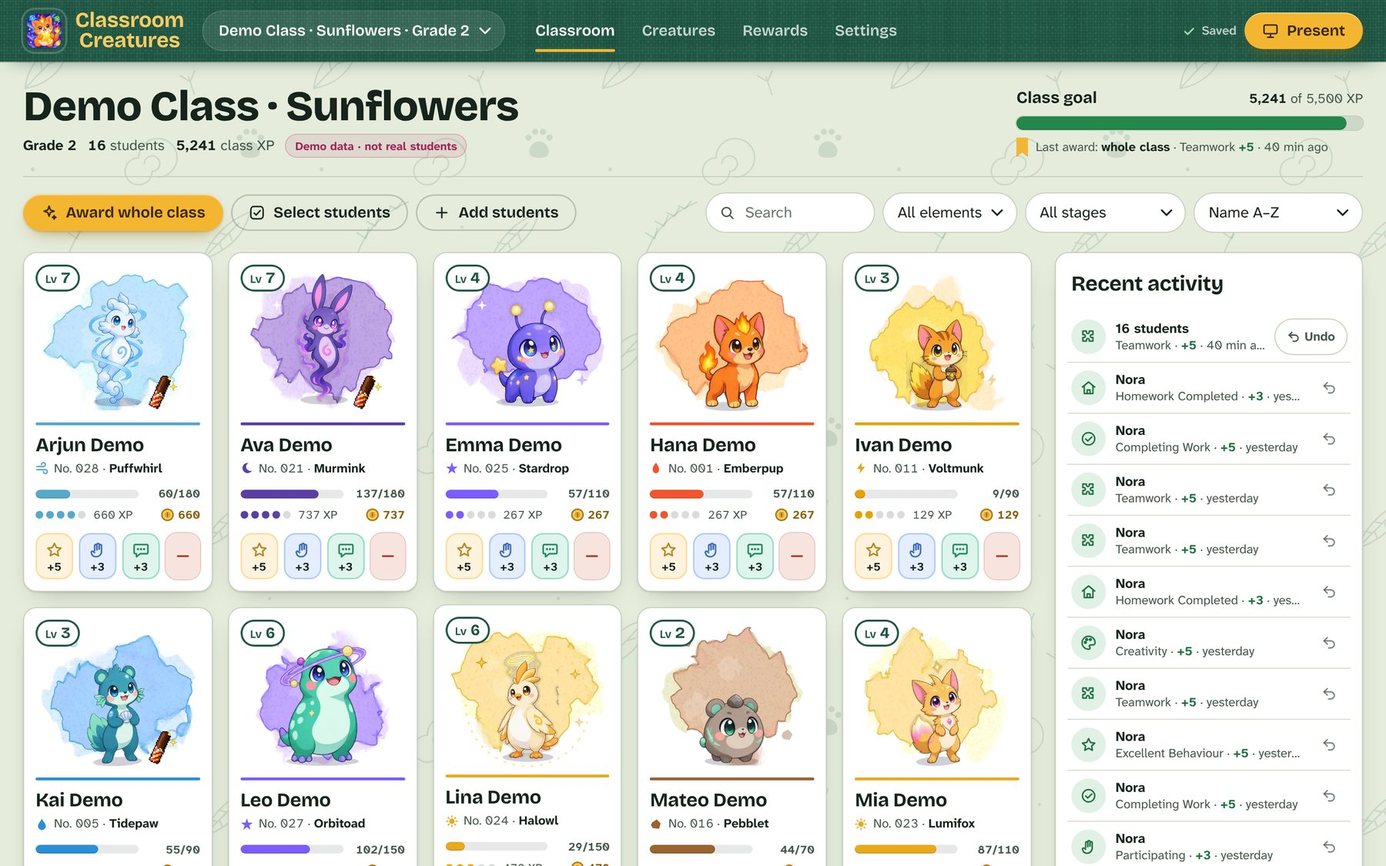
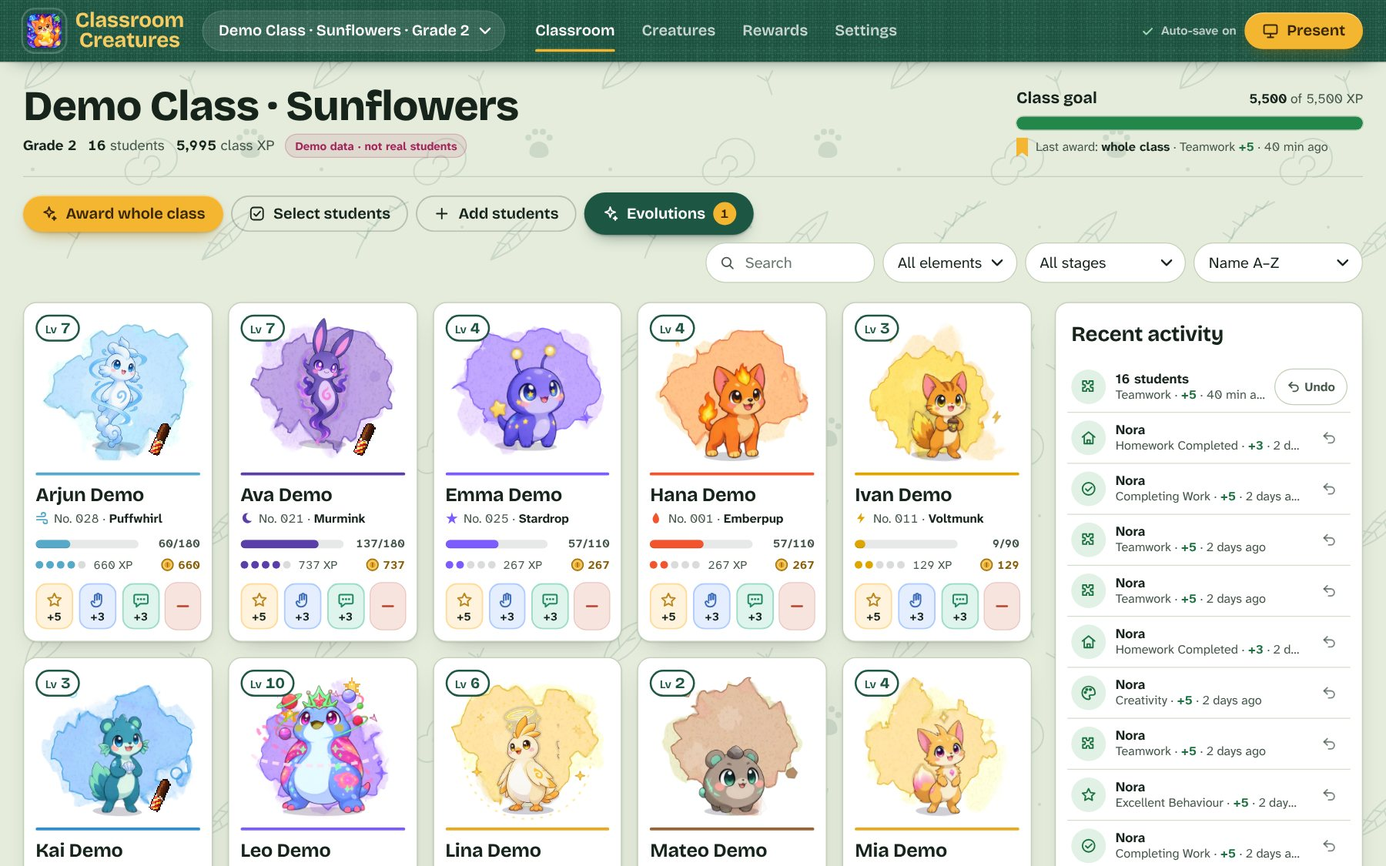
chore: release 1.4.0, the creature RPG update
Large-view pixel rules: mythical forms wear drifting particles instead of
full-body auras, the equippable shield keeps only its rim, the light beam
moves beside the creature, floating pickups drop their floor shadow, and
mood effects use a smaller stand-in so nothing covers a creature's face.
Wings and shield icons for the dressing room tabs.

Docs: README What's new in 1.4 with new screenshots, commands and
architecture; DESIGN.md components and pixel-layer rules; design-system
and roadmap updates. Version 1.4.0.

Claude-Session: https://claude.ai/code/session_0146Sco5Dyscef7FdmFmnUiR

diff --git a/src/creatures/Creature.tsx b/src/creatures/Creature.tsx
@@ -69,18 +69,28 @@ const MOOD_FX: Partial<Record<Mood, PixelFxId>> = { happy: 'status/charmed', exc
 const COMPACT_POW = 0.36;
 
 /** pixel-art special effects a student can equip (magic slot) */
-const EQUIP_FX: Record<string, { id: PixelFxId; anchor?: [number, number]; size?: number; palette?: string[] }> = {
-  'fx-shield': { id: 'holy/divine-shield', palette: ['#0b3a66', '#1f6fa8', '#3fb6e8', '#8fe4ff', '#e6fbff', '#ffffff'] },
-  'fx-orbs': { id: 'pickups/xp-orb', anchor: [0.82, 0.42], size: 0.55 },
-  'fx-crystals': { id: 'pickups/crystal-shard', anchor: [0.16, 0.5], size: 0.6 },
-  'fx-gems': { id: 'pickups/gem-spin', anchor: [0.84, 0.36], size: 0.5 },
-  'fx-beam': { id: 'pickups/loot-beam', anchor: [0.5, 0.97], size: 0.9 },
+interface EquipFx { id: PixelFxId; anchor?: [number, number]; size?: number; palette?: string[]; shadow?: boolean; large?: { anchor?: [number, number]; size?: number; clearCentre?: boolean } }
+/**
+ * Pixel-art special effects a student can equip (magic slot). On large views (profile, dressing room)
+ * the pixels get big, so effects that would cover the creature move aside or keep only their rim.
+ */
+const EQUIP_FX: Record<string, EquipFx> = {
+  'fx-shield': { id: 'holy/divine-shield', palette: ['#0b3a66', '#1f6fa8', '#3fb6e8', '#8fe4ff', '#e6fbff', '#ffffff'], large: { clearCentre: true } },
+  'fx-orbs': { id: 'pickups/xp-orb', anchor: [0.82, 0.42], size: 0.55, shadow: false },
+  'fx-crystals': { id: 'pickups/crystal-shard', anchor: [0.16, 0.5], size: 0.6, shadow: false },
+  'fx-gems': { id: 'pickups/gem-spin', anchor: [0.84, 0.36], size: 0.5, shadow: false },
+  'fx-beam': { id: 'pickups/loot-beam', anchor: [0.5, 0.97], size: 0.9, large: { anchor: [0.86, 0.9], size: 0.42 } },
 };
+/** keeps a full-body effect's rim and clears the middle, where the creature's face is */
+const CLEAR_CENTRE = { maskImage: 'radial-gradient(ellipse 50% 52% at 50% 56%, transparent 62%, #000 86%)', WebkitMaskImage: 'radial-gradient(ellipse 50% 52% at 50% 56%, transparent 62%, #000 86%)' };
 
-/** the looping pixel aura each mythical aspect wears */
-const MYTH_AURA: Partial<Record<Motif, PixelFxId>> = {
-  frostflame: 'status/burning', stormtide: 'holy/divine-shield', voidvolt: 'status/cursed', sunfrost: 'pickups/crystal-shard',
-  amethyst: 'pickups/crystal-shard', dawn: 'status/burning', moon: 'holy/divine-shield', nebula: 'holy/divine-shield',
+/**
+ * The pixel particles drifting around each mythical aspect (on large views, unless a trail is worn).
+ * Particles stay around the creature; full-body pixel effects scaled to a big plate covered its face.
+ */
+const MYTH_AURA: Partial<Record<Motif, string>> = {
+  frostflame: 'trail-snow', stormtide: 'trail-bubble', voidvolt: 'trail-star', sunfrost: 'trail-snow',
+  amethyst: 'trail-sparkle', dawn: 'trail-sparkle', moon: 'trail-star', nebula: 'trail-star',
 };
 
 const CYCLE: CreatureAction[] = ['jump', 'wave', 'ability', 'happy'];
@@ -215,14 +225,20 @@ export function Creature({ speciesId, stage, equipped, celebrateKey, reactKind =
       {effects && shownMood === 'sad' && <EmotionFx mood="sad" compact={compact} />}
       {effects && equipped?.magic && EQUIP_FX[equipped.magic] && (() => {
         const f = EQUIP_FX[equipped.magic!];
-        return <PixelFx key={`equip-${equipped.magic}`} id={f.id} anchor={f.anchor} size={f.size} options={f.palette ? { palette: f.palette } : undefined} fps={compact ? 16 : 24} lightOpacity={0.6} />;
+        const big = compact ? undefined : f.large;
+        const options = { ...(f.palette ? { palette: f.palette } : {}), ...(f.shadow === false ? { shadow: false } : {}) };
+        return <PixelFx key={`equip-${equipped.magic}`} id={f.id} anchor={big?.anchor ?? f.anchor} size={big?.size ?? f.size} options={options} fps={compact ? 16 : 24} lightOpacity={0.6} style={big?.clearCentre ? CLEAR_CENTRE : undefined} />;
       })()}
-      {effects && myth && !compact && MYTH_AURA[myth.motif] && <PixelFx key={`myth-${myth.motif}`} id={MYTH_AURA[myth.motif]!} options={{ palette: myth.aura }} fps={24} />}
-      {effects && !current && !myth && MOOD_FX[mood] && <PixelFx key={`mood-${mood}`} id={MOOD_FX[mood]!} fps={compact ? 20 : 30} />}
+      {effects && myth && !compact && !equipped?.trail && MYTH_AURA[myth.motif] && <Trail key={`myth-${myth.motif}`} id={MYTH_AURA[myth.motif]!} />}
+      {effects && !current && !myth && MOOD_FX[mood] && (compact
+        ? <PixelFx key={`mood-${mood}`} id={MOOD_FX[mood]!} fps={20} />
+        // large views: a smaller stand-in with its head where the creature's head is, so the pixels stay fine
+        : mood === 'excited' ? <PixelFx key={`mood-${mood}`} id={MOOD_FX[mood]!} fps={30} />
+        : <PixelFx key={`mood-${mood}`} id={MOOD_FX[mood]!} fps={30} bodyFrac={0.34} anchor={[0.5, 0.65]} />)}
       {effects && treats > 0 && (
         <>
           <PixelFx key="treat" id="pickups/choco-stick" anchor={compact ? [0.8, 0.98] : [0.78, 0.9]} size={compact ? 0.42 : 0.2} options={{ shadow: false }} fps={compact ? 20 : 30} />
-          {treats > 1 && <span className="absolute bottom-[4%] right-[4%] grid h-5 min-w-5 place-items-center rounded-full bg-[#d8242f] px-1 text-[10px] font-extrabold text-white ring-2 ring-white">×{treats}</span>}
+          {treats > 1 && <span className={`absolute grid h-5 min-w-5 place-items-center rounded-full bg-[#d8242f] px-1 text-[10px] font-extrabold text-white ring-2 ring-white ${compact ? 'bottom-[4%] right-[4%]' : 'left-[81%] top-[83%]'}`}>×{treats}</span>}
         </>
       )}
       {fx.map((f) => (

diff --git a/src/creatures/PixelFx.tsx b/src/creatures/PixelFx.tsx
@@ -1,4 +1,4 @@
-import { useEffect, useRef, useState } from 'react';
+import { type CSSProperties, useEffect, useRef, useState } from 'react';
 import { clearFrame, createFrame, createFx } from '../vendor/pixelfx/core/index.js';
 
 /**
@@ -8,7 +8,7 @@ import { clearFrame, createFrame, createFx } from '../vendor/pixelfx/core/index.
 // eslint-disable-next-line @typescript-eslint/no-explicit-any
 type FxModule = any;
 /** effects that paint the stand-in's face (eyes, blush): those pixels are dropped so our creature shows through */
-const PAINTS_BODY = new Set(['holy/halo', 'status/charmed', 'status/burning', 'status/frozen', 'status/cursed', 'status/petrified', 'status/rage', 'holy/divine-shield']);
+const PAINTS_BODY = new Set(['holy/blessing', 'holy/halo', 'status/charmed', 'status/burning', 'status/frozen', 'status/cursed', 'status/petrified', 'status/rage', 'holy/divine-shield']);
 const FX = {
   'explosions/cartoon-pow': () => import('../vendor/pixelfx/fx/explosions/cartoon-pow.js'),
   'holy/halo': () => import('../vendor/pixelfx/fx/holy/halo.js'),
@@ -81,6 +81,8 @@ export interface PixelFxProps {
   onDone?: () => void;
   fps?: number;
   className?: string;
+  /** extra styles on the effect layer (e.g. a mask that keeps the creature's face clear) */
+  style?: CSSProperties;
   /** strength of the additive light layer (big effects can wash out a light page) */
   lightOpacity?: number;
 }
@@ -116,7 +118,7 @@ export function PixelFx(props: PixelFxProps) {
   return <FxCanvas {...props} mod={mod} />;
 }
 
-function FxCanvas({ id, anchor = [0.5, 0.93], bodyFrac = 0.62, size = 1, options, duration, onDone, fps = 30, className = '', lightOpacity = 1, mod }: PixelFxProps & { mod: FxModule }) {
+function FxCanvas({ id, anchor = [0.5, 0.93], bodyFrac = 0.62, size = 1, options, duration, onDone, fps = 30, className = '', style, lightOpacity = 1, mod }: PixelFxProps & { mod: FxModule }) {
   const box = useRef<HTMLDivElement>(null);
   const colorRef = useRef<HTMLCanvasElement>(null);
   const lightRef = useRef<HTMLCanvasElement>(null);
@@ -195,7 +197,7 @@ function FxCanvas({ id, anchor = [0.5, 0.93], bodyFrac = 0.62, size = 1, options
   }, [id, duration, fps, size, bodyFrac, anchor[0], anchor[1], JSON.stringify(options ?? {})]);
 
   return (
-    <div ref={box} className={`pointer-events-none absolute inset-0 ${className}`} aria-hidden>
+    <div ref={box} className={`pointer-events-none absolute inset-0 ${className}`} style={style} aria-hidden>
       <canvas ref={colorRef} width={W} height={H} className="absolute" style={{ imageRendering: 'pixelated' }} />
       <canvas ref={lightRef} width={W} height={H} className="absolute" style={{ imageRendering: 'pixelated', mixBlendMode: 'screen', opacity: lightOpacity }} />
     </div>

diff --git a/src/components/Icon.tsx b/src/components/Icon.tsx
@@ -27,6 +27,7 @@ const PATHS: Record<string, ReactNode> = {
   star: <path d="M12 3.5l2.6 5.4 5.9.8-4.3 4.1 1 5.8L12 16.8l-5.2 2.8 1-5.8-4.3-4.1 5.9-.8z" />,
   target: <><circle cx="12" cy="12" r="8.5" /><circle cx="12" cy="12" r="4.5" /><circle cx="12" cy="12" r="1" fill="currentColor" /></>,
   crown: <><path d="M4 18h16M5 18l-1.5-10 5 4L12 5l3.5 7 5-4L19 18" /></>,
+  wings: <><path d="M12 10C10 6 6.5 4.5 3.5 5c-.4 3.6 1.6 7.6 5.7 8.6L12 13" /><path d="M12 10c2-4 5.5-5.5 8.5-5 .4 3.6-1.6 7.6-5.7 8.6L12 13" /><path d="M7 15.5c1.5 1.6 3.3 2.3 5 2.3s3.5-.7 5-2.3" /></>,
   replay: <><path d="M4 12a8 8 0 1 0 2.4-5.7" /><path d="M4 4v4.5h4.5" /></>,
   back: <path d="M15 5l-7 7 7 7" />,
   next: <path d="M9 5l7 7-7 7" />,

diff --git a/src/views/Customize.tsx b/src/views/Customize.tsx
@@ -17,7 +17,7 @@ import { useStore } from '../store/store';
 import type { Equipped, Item, ItemSlot, Student } from '../types';
 
 const SLOT_ICON: Record<ItemSlot, string> = {
-  hat: 'crown', glasses: 'target', outfit: 'user', armor: 'pin', wings: 'wave', decoration: 'star', background: 'book', trail: 'sparkle', magic: 'bolt',
+  hat: 'crown', glasses: 'target', outfit: 'user', armor: 'shield', wings: 'wings', decoration: 'star', background: 'book', trail: 'sparkle', magic: 'bolt',
 };
 
 /** Dressing room: the creature in the middle, categories on the left, items on the right. Try anything on before buying. */

diff --git a/README.md b/README.md
@@ -1,6 +1,6 @@
 # Classroom Creatures
 
-A gamified classroom management app for Grade 2 and Grade 3 teachers. Every student gets their own original fantasy creature. The teacher awards XP for positive behaviour, and the creatures celebrate, level up, evolve through five forms, unlock badges and accessories, and appear on a projector-friendly presentation screen.
+A gamified classroom management app for Grade 2 and Grade 3 teachers. Every student gets their own original fantasy creature. The teacher awards XP for positive behaviour, and the creatures celebrate, level up and evolve through five forms (ten of them can take a mythical final path). Students dress their creature up with the coins they earn, awaken its abilities and play with it, and the class fills in a field guide of every form it discovers. It all shows on a projector-friendly presentation screen.
 
 - **Runs locally.** No accounts, no student emails, no cloud, no paid services. Works offline once installed.
 - **Saves automatically** to the browser's IndexedDB (with a localStorage mirror), plus daily safety snapshots and downloadable backup files.
@@ -9,11 +9,30 @@ A gamified classroom management app for Grade 2 and Grade 3 teachers. Every stud
 
 <p align="center"><img src="docs/screenshots/classroom.jpg" alt="The Classroom dashboard: student cards with illustrated creatures, moods, coins and quick award buttons" width="900"></p>
 
-| Presentation mode | Prize wheel | Shop |
+| Creature profile | Dressing room | Evolution |
 |---|---|---|
-| <img src="docs/screenshots/presentation.jpg" alt="Presentation mode on a projector" width="300"> | <img src="docs/screenshots/prize-wheel.jpg" alt="The class prize wheel" width="300"> | <img src="docs/screenshots/shop.jpg" alt="The coin shop in a student's profile" width="300"> |
+| <img src="docs/screenshots/creature-profile.jpg" alt="A creature's profile: the mythical Nebula Prince form, level 10, its evolution line, personality and abilities" width="300"> | <img src="docs/screenshots/dressing-room.jpg" alt="The dressing room: item categories, the creature trying on butterfly wings, and item cards marked owned or with a coin price" width="300"> | <img src="docs/screenshots/evolution.jpg" alt="The evolution reveal: stage IV beside the new mythical stage V form, Your creature evolved!" width="300"> |
+
+| Field guide | Teacher controls | Presentation mode |
+|---|---|---|
+| <img src="docs/screenshots/field-guide.jpg" alt="The class field guide: discovery progress, class milestones with rewards, and creature cards, undiscovered ones as silhouettes" width="300"> | <img src="docs/screenshots/teacher-controls.jpg" alt="Settings, Creatures and Shop: evolution mode, one creature waiting, and the class progression table" width="300"> | <img src="docs/screenshots/presentation.jpg" alt="Presentation mode on a projector" width="300"> |
 
 <p align="center"><img src="docs/screenshots/reactions.jpg" alt="Pixel effects: a happy award, a BONK deduction, dizzy stars and confused question marks" width="900"></p>
+
+## What's new in 1.4: the creature RPG update
+
+- **Evolution can be a class moment.** Choose **Automatic** (creatures evolve as soon as they have the XP) or **Teacher approval** in Settings → Creatures & Shop. With approval on, a ready creature shows **Ready to evolve** and joins the **Evolutions** queue on the Classroom tab until you press **Evolve**. The evolution itself is a full-screen sequence: the creature turns to light under a pixel pillar, a flash, then the new form beside the old one, with its own sounds. Every evolution is kept in the creature's history, and evolving never changes XP or coins.
+- **Two final paths.** Ten creatures choose at stage V between their classic Legendary form and a **Mythical** form with its own colours, ornaments and drifting pixel particles. The field guide counts both.
+- **A dressing room for every creature.** 73 items in nine slots: hats, glasses, clothing, armor, wings, accessories, backgrounds, trails and effects. Students try anything on before buying, see what they own, what they are wearing, what is locked and what it costs, and buy with their own coins. There are rare items and seasonal ones (a Blossom Crown in spring, Summer Shades, an Autumn Leaf Crown, a Snowflake Scarf in winter) marked with how long they stay. Nothing is random: no loot boxes, nothing bought twice, and coins never go below zero. Undoing an award never takes back something a student bought.
+- **A creature profile.** One page per creature: the creature itself to pet, feed and play with (snacks and toys are free and just for fun), level and XP, the evolution line with progress to the next form, its personality (seven kinds, each with a favourite snack and toy), abilities, achievements and the forms it has revealed. Open it from a student's pop-up, the Presentation spotlight or the progression table.
+- **Abilities.** Every creature has four: two from its element, a signature move, and an ultimate that depends on its final path. Each has three ranks, and a creature earns one skill point per level. Abilities only play an animation; they never change points or give anyone an advantage.
+- **The class field guide.** All 160 forms (30 creatures × 5 stages, plus the 10 mythical forms). Forms the class has not met yet are silhouettes. Search by name and filter by element, rarity or discovery. When the class discovers 25%, 50%, 75% and 100% of the guide, everyone gets a reward (Star Trail, Star Guardian Armor, Crystal Cave background, Naturalist's Hat).
+- **Creature achievements**, each with its requirement and, where it has one, a reward: First Evolution, Evolution Master, First Legendary, Mythical Path, Customization Expert, Wardrobe Collector, Ability Adept, Ability Master, Best Friends, Creature Collector, Field Researcher, Master Collector and Grand Naturalist.
+- **Teacher controls** in Settings → Creatures & Shop: the evolution mode and queue, a progression table for the class, **Adjust XP** to fix a mistake (logged in the student's history, undoable, never touches coins), **Reset progress** for one student (you type their name to confirm, and a safety snapshot is saved first), which creatures new students can get, and which items are offered and at what price.
+- **Students can use their own creature while you stay locked.** From Presentation Mode, students can open their creature's profile and dressing room while teacher controls are locked. They can play, awaken abilities and spend their own coins, but they can never change XP or coins. Switch this off in Settings → Creatures & Shop.
+- **Sound settings.** A volume slider, optional button clicks, and new sounds for evolving, buying, dressing up, abilities, snacks and toys. Everything still follows the **Sound effects** switch.
+- **Starts faster.** Screens and pixel effects now load the first time they are needed.
+- **Your data comes with you.** 1.3 data upgrades automatically when you open 1.4 (a safety snapshot is saved first). Students keep their creature, XP, coins, stage, items and history, and existing classes stay on Automatic evolution.
 
 ## What's new in 1.3
 
@@ -39,7 +58,7 @@ A gamified classroom management app for Grade 2 and Grade 3 teachers. Every stud
 - **Milestone rewards.** Every 100 XP a student earns a **Choki Choki chocolate** (change the treat, the amount or add more milestones in Settings → Classroom & PIN). A popup tells you who earned one, and **Rewards → Milestone rewards to hand out** keeps the list until you tick **Given ✓**.
 - **Behaviour deductions.** Talking Without Permission (−2), Moving Around (−2), Task Not Finished (−3), Not Listening to Instructions (−2), from the grey **−** button on each card or the award list. The creature gets a cartoon **BONK!**, dizzy stars and a sad rain cloud for a while. Deductions take XP only, never coins, never go below 0 XP and never undo an evolution.
 - **Creature emotions.** Each creature feels **happy** after points, **excited** after several in a row, **proud** after a milestone, **sad** after a deduction, **sleepy** when ignored for a few days, and **calm** otherwise. Moods show on cards, profiles and in Presentation Mode (hearts, sparkles, rain cloud, Zzz, crown).
-- **Class goal prize wheel.** When the class reaches its XP goal, everyone spins the wheel: funny video, gaming class, movie class, Choki Choki for everyone, extra playtime or a music & dance party (editable). The next goal is set automatically.
+- **Class goal prize wheel** ([screenshot](docs/screenshots/prize-wheel.jpg)). When the class reaches its XP goal, everyone spins the wheel: funny video, gaming class, movie class, Choki Choki for everyone, extra playtime or a music & dance party (editable). The next goal is set automatically.
 - **Livelier creatures.** Element particles drift around every creature (embers, bubbles, leaves, sparks…). In the profile and Presentation spotlight, creatures lean towards your pointer, react when tapped, and **press and hold to pet** them for hearts.
 - Data from 1.0 upgrades automatically: students start with coins equal to the XP they already have, and past milestones count as already handed out.
 
@@ -74,9 +93,9 @@ npm install
 npm run app:mac
 ```
 
-This creates `release/Classroom Creatures-1.0.0-universal.dmg` (works on both Apple Silicon and Intel Macs). Open the `.dmg` and drag **Classroom Creatures** into **Applications**.
+This creates `release/Classroom Creatures-<version>-universal.dmg` (works on both Apple Silicon and Intel Macs). Open the `.dmg` and drag **Classroom Creatures** into **Applications**.
 
-**Or download it:** grab the latest `.dmg` from this repository's **Releases** page. Every push to `main` also builds it (the *macOS app* workflow on the **Actions** tab, artifact `Classroom-Creatures-mac`), and a Release is published either by pushing a tag such as `v1.3.0` or from **Actions → Release → Run workflow** with the version number (the tag is created for you).
+**Or download it:** grab the latest `.dmg` from this repository's **Releases** page. Every push to `main` also builds it (the *macOS app* workflow on the **Actions** tab, artifact `Classroom-Creatures-mac`), and a Release is published either by pushing a tag such as `v1.4.0` or from **Actions → Release → Run workflow** with the version number (the tag is created for you).
 
 **First launch of a downloaded copy:** the app is not notarised by Apple (that needs a paid Apple Developer account), so macOS warns you the first time. Right-click (or Control-click) the app in Applications → **Open** → **Open**. On recent macOS versions you may instead need to go to System Settings → Privacy & Security and click **Open Anyway**. If macOS says the app "is damaged", run this once in Terminal:
 
@@ -93,30 +112,37 @@ To try the desktop shell without packaging: `npm run app`. The same config also 
 | Command | What it does |
 |---|---|
 | `npm run dev` | Development server with hot reload |
-| `npm test` | Unit tests for the XP, evolution, achievement, challenge, import and backup engine (Vitest) |
+| `npm test` | Unit tests for the XP, evolution, shop, ability, achievement, challenge, import, backup and storage code (Vitest) |
+| `npm run test:e2e` | End-to-end check in a real browser: the 1.3 to 1.4 upgrade, playing with a creature, abilities, buying an item, a teacher-approved evolution, the field guide, locked student mode, persistence after a restart, and phone width. Needs Playwright (`npm i -D playwright && npx playwright install chromium`); `E2E_SHOTS=out` also saves screenshots |
 | `npm run typecheck` | TypeScript check |
 | `npm run build` | Type-check and build the production site into `dist/` |
 
 ## Classroom workflow
 
 1. **Classroom tab**: every student card shows the creature, level, XP bar, stage and three quick-award buttons (the behaviours you ⭐ pin in Settings).
-2. **Click a card** to open the student profile: a big animated creature, the full award grid, wardrobe, badges, challenge progress, history and management tools.
+2. **Click a card** to open the student pop-up: a big animated creature, the full award grid, what the creature is wearing, badges, challenge progress, history and management tools. **Creature profile** opens the creature's full page, with the **Dressing room** one tap away.
 3. **Select students** to award several at once, or **Award whole class**.
 4. Every award shows a floating **+XP**, a chime and a creature celebration. Level-ups, achievements and evolutions trigger their own celebrations automatically.
 5. **Made a mistake?** Every award shows an **Undo** toast for 10 seconds, and any award can be undone later from the activity panel or the student's History tab. Undo also takes back badges or items that award unlocked.
-6. **Present** opens a full-screen projector view: first names and creatures only (no XP totals, no rankings), a class-goal bar, an awards ticker, a spinning random student picker and a big spotlight view.
+6. **Evolutions** (with Teacher approval on) lists the creatures ready to evolve. Press **Evolve** for one, or **Evolve all**; a creature at its last stage with two paths asks which one to take.
+7. **Present** opens a full-screen projector view: first names and creatures only (no XP totals, no rankings), a class-goal bar, an awards ticker, a spinning random student picker and a big spotlight view.
 
 ## Project architecture
 
 ```
 src/
 ├── types.ts                 Domain types (AppData is everything that is persisted)
-├── data/                    Pure content: species roster, elements, defaults, achievements, items, challenges
+├── data/                    Pure content: species, elements, defaults, achievements, items, challenges,
+│                            final paths (branches.ts), abilities and personalities
 ├── engine/                  Pure, unit-tested game logic (no React, no storage)
-│   ├── progression.ts       XP → level → stage, next-evolution targets, table validation
-│   ├── awards.ts            applyAward / undoBatch / unlock evaluation / challenge progress
+│   ├── progression.ts       XP → level → stage, next-evolution targets, readiness, table validation
+│   ├── awards.ts            applyAward / undoBatch / unlock evaluation / challenge progress / purchases
+│   ├── evolution.ts         Approval queue, one-stage evolutions, final-path choice, evolution history
+│   ├── collection.ts        Forms revealed, class discoveries, field-guide statistics
+│   ├── abilities.ts         Skill points, ability ranks and the ability tree view
+│   ├── shop.ts              Item states (owned, wearing, buyable, locked, seasonal), prices, buying
 │   ├── roster.ts            Unique creature assignment, student/class factories, CSV/name parsing
-│   ├── backup.ts            Backup file format, validation and normalisation
+│   ├── backup.ts            Backup file format, validation, normalisation and step-wise data migrations
 │   ├── demo.ts              Clearly labelled demo class
 │   └── pin.ts               Salted SHA-256 PIN hashing
 ├── store/
@@ -127,11 +153,15 @@ src/
 │   ├── accessories.tsx      Hats, glasses, wings, magic, decorations
 │   ├── Creature.tsx         Animated wrapper: idle loop, reactions, particle bursts
 │   ├── Burst.tsx            One-shot element/sparkle/confetti particles
-│   └── Habitat.tsx          Element habitats and unlockable backgrounds
+│   ├── Habitat.tsx          Element habitats, unlockable backgrounds and painted pixel scenes
+│   ├── PixelFx.tsx          Plays pixelfx effects on one shared animation clock, loading each on first use
+│   ├── pixel.tsx            Pixel sprites (snacks, toys, ability icons) and trail particles
+│   └── mythic.tsx           Colour grade and ornaments for the mythical final forms
 ├── (electron/main.cjs)     Desktop shell: serves dist/ from a private app:// origin, menus, full screen
 ├── audio/sfx.ts             All sounds synthesised with Web Audio (original, offline)
 ├── components/              Cards, award grid, celebrations, toasts, top bar, PIN lock, UI kit
-├── views/                   Dashboard, StudentProfile, Creaturedex, Rewards, Settings, Present, Onboarding
+├── views/                   Dashboard, StudentProfile, CreatureProfile, Customize (dressing room), Creaturedex
+│                            (field guide), Rewards, Settings, TeacherCreatures, Present, Onboarding
 └── lib/                     Hash router and view-model helpers
 ```
 
@@ -145,6 +175,7 @@ Every creature has illustrated artwork for all five stages (150 images in `publi
 
 - `scripts/slice-lineup.py <lineup.png> <id>` cuts a lineup into `<id>-1.webp` … `<id>-5.webp` (needs Python with Pillow, NumPy and SciPy).
 - `scripts/creature-anchors.py` measures where each creature's head and eyes are and writes `src/data/creatureArt.json`, which is how hats, glasses and other accessories line up on the illustrations.
+- **Mythical forms** are drawn from the Legendary art with a colour grade and ornaments (`src/creatures/mythic.tsx`). To give one its own painting, add `public/creatures/<id>-5b.webp` and an anchor entry `<id>-5b` in `src/data/creatureArt.json`; the app uses it automatically.
 - The original vector drawings are still in the app. Teachers can switch to them in **Settings → Classroom & PIN → Illustrated creature art**, and any species without an illustration automatically uses them. Open `?sheet` in development to see the vector set, or `?sheet&art` for the illustrations.
 
 ## Adding new creatures
@@ -184,11 +215,11 @@ Teachers can edit the level table and evolution levels in **Settings → XP & Ev
 |---|---|---|---|---|---|---|---|---|---|---|
 | Total XP | 0 | 50 | 120 | 210 | 320 | 450 | 600 | 780 | 980 | 1200 |
 
-Evolution: Baby (L1), Young (L3), Evolved (L5), Advanced (L7), Legendary Form (L10). Behaviour XP values are edited in **Settings → Behaviours**. Achievement rules and item unlock rules are data in `src/data/defaults.ts`.
+Evolution: Baby (L1), Young (L3), Evolved (L5), Advanced (L7), Legendary Form (L10). Whether creatures evolve as soon as they reach the level or wait for you is set in **Settings → Creatures & Shop**. Behaviour XP values are edited in **Settings → Behaviours**. Achievement rules and item unlock rules are data in `src/data/defaults.ts`.
 
 ## Backing up and restoring data
 
-- **Automatic**: every change is saved immediately on this computer. A safety snapshot is taken once a day and before anything is deleted, removed or restored (the newest 12 are kept).
+- **Automatic**: every change is saved immediately on this computer. A safety snapshot is taken once a day and before anything is deleted, removed, reset, restored or upgraded to a new version (the newest 12 are kept).
 - **Backup file**: Settings → Backup & Data → *Download backup file*. Keep it on a USB stick or school drive (once a week is a good habit).
 - **Restore**: *Restore from file* (or pick a snapshot). Your current data is snapshotted first, so a restore can itself be undone.
 - **Moving to a new computer**: download a backup on the old one, open the app on the new one, restore the file.

diff --git a/DESIGN.md b/DESIGN.md
@@ -265,7 +265,25 @@ White 12px tiles with a rule ring and the card shadow; a 44px tinted icon square
 One drawn set on a 24px grid with 2px round strokes. A behaviour's emoji is shown through its drawn twin when one exists. The coin has its own two-tone ochre drawing.
 
 ### Big Moments
-Evolution and whole-class celebrations take the full screen in deep bookcloth with linen. The new form sits on a large plate with a rotated round seal (gilt ring, field number, roman stage); headline in gilt display type; actions are a ghost Replay and a gilt primary.
+Evolution and whole-class celebrations take the full screen in deep bookcloth with linen. An evolution charges first: the plate darkens to the element colour, the creature turns to white light under a pixel pillar in the element palette, the caption (field number, species, current stage) sits on a cloth-950 pill above the effect layer, and a white flash hands over to the reveal. The new form then sits on a large plate beside the old one, with a rotated round seal (gilt ring, field number, roman stage); a mythical form adds a rarity-tinted path chip; headline in gilt display type; actions are a ghost Replay and a gilt primary. Skip is always offered.
+
+### Creature Profile
+A two-column page on the endpaper. Left: one large plate holding the creature on its wash, a mood chip, the evolve badge, and a row of light buttons (Pet, Feed, Play, Sing) with the Dressing room as the cloth action. Feed and Play open a wash tray of pixel snacks and toys. Right: a stack of paper sheets: level and XP as monumental numerals over an element-coloured bar; the evolution line as five small plates (the current one gilt-pale with a gilt-deep ring, undiscovered ones as silhouettes); personality; abilities; achievements; forms revealed. Coins sit top-right in the ochre coin pill.
+
+### Dressing Room
+Category list on the left (light pills with a count, the current one bookcloth), the creature on a large plate in the middle with the selected item tried on and an action panel under it, item cards on the right. The worn items are chips with a remove button under the plate. Item cards: white, the item shown on the student's own creature, name in the display face, one state chip (Wearing in leaf, Owned in leaf-pale, a coin price in ochre, Locked in ink-soft). Rare cards take a gilt-deep ring and a gilt Rare chip; seasonal cards say until when. Buying is always the cloth button ("Buy and wear · 60"), never gilt.
+
+### Ability Tree
+Four rows joined by a thin rule spine. Each row: a pixel icon tile, the name at title size with its tier, a one-line description, rank diamonds, and the action (gilt "Awaken · 1 point" or "Rank up", light "Use"). Asleep abilities are dimmed with the level they wake at.
+
+### Field Guide Cards
+Plates without the award foot: the creature (or its ink silhouette on the wash until discovered), field number, forms found, name or "???", element chip, rarity stars, and a mythical-path chip in berry when the species has one. Class milestones are four wide sheets above the grid; a reached one takes a gilt ring and says so.
+
+### Teacher Tables
+The progression table is a paper sheet with a wash header row, rule dividers, tabular numerals right-aligned, a 36px creature thumbnail per row and small light actions (Profile, Adjust XP, Reset in brick text). Confirmations that cannot be undone ask for the student's name and use the danger button.
+
+### Pixel Layer
+Pixel art is the RPG layer around the illustrated creatures: effects from the vendored pixelfx library, trail particles, snacks, toys, ability icons and painted pixel scenes. All of it runs on one shared animation clock and loads on first use. On large views (profile, dressing room, spotlight) the pixels get big, so an effect must never cover the creature's face: full-body effects keep only their rim (a radial mask) or move beside the creature, mood effects use a smaller stand-in whose head sits at the creature's head, and floating pickups drop their floor shadow. Mythical forms wear drifting particles, not a full-body aura.
 
 ### Motion
 Creatures idle with CSS loops (bob, float, hop, sway, breathe) chosen per species; UI uses Framer springs (plates stiffness 400, modals 320) and 120 to 150ms transitions on buttons and inputs. Every loop stops under Reduce Motion, from the OS or the in-app setting.
@@ -279,6 +297,8 @@ Creatures idle with CSS loops (bob, float, hop, sway, breathe) chosen per specie
 - **Do** tint element and behaviour colours onto white with a ring of the same hue and keep the text ink.
 - **Do** set changeable numbers in tabular figures and give monumental numerals one message per band in Present and the profile.
 - **Do** use the drawn 24px stroke icon set for every control.
+- **Do** keep purchases deterministic and visible: the price on the card, the student's coins in view, one cloth button to buy.
+- **Do** check a pixel effect on the largest view it can appear in before shipping it.
 
 ### Don't:
 - **Don't** use gilt on a resting surface, a decorative border or a heading on paper.
@@ -288,3 +308,5 @@ Creatures idle with CSS loops (bob, float, hop, sway, breathe) chosen per specie
 - **Don't** build hierarchy from uppercase or letterspaced labels; use the size scale.
 - **Don't** put emoji in chrome; emoji appear only as the teacher's own behaviour, prize and badge content.
 - **Don't** let coins borrow gilt; currency is ochre.
+- **Don't** add loot boxes, random rolls for money or anything that can be bought twice.
+- **Don't** let a pixel effect sit on a creature's face, or replace creature art with emoji.

diff --git a/ROADMAP.md b/ROADMAP.md
@@ -2,7 +2,7 @@
 
 Ideas for the next versions, roughly in order of classroom value.
 
-## 1.3 candidates
+## Next candidates
 1. **Seating-chart view**: arrange cards like the real classroom (drag and drop), so awarding is "tap the desk".
 2. **Team / table points**: groups of 4–6 students with a shared team creature and team awards.
 3. **Attendance toggle**: mark absent students so whole-class awards skip them and nobody "falls behind".
@@ -11,10 +11,12 @@ Ideas for the next versions, roughly in order of classroom value.
 6. **Sound and music packs**: an optional calm background track and a quieter "library mode" sound set.
 7. **Trading cards**: print a student's creature card (name, stage, element, first badge) as a sticker sheet.
 8. **More pixel effects** with the pixelfx skill: element-specific evolution bursts (fire ring, frost nova, leaf storm, lightning call) and a pixel "nom nom" when a treat is handed out.
+9. **Painted mythical forms**: bespoke artwork for the ten mythical final forms (the pipeline already picks up `public/creatures/<id>-5b.webp`), then new mythical species.
+10. **Ability reset for teachers**: take back a creature's skill points so it can choose again.
 
 ## Later
 - **Optional sync** between two computers (e.g. teacher laptop and classroom PC) using a backup file in a shared folder, then a proper sync service.
-- **Student kiosk mode**: students tap their own name to see their creature (view only, no awards).
+- **Student kiosk mode**: students tap their own name to open their creature without going through Presentation Mode (1.4 already lets them open it from there while teacher controls are locked).
 - **Localisation**: Bahasa Malaysia / Bahasa Indonesia, Arabic and Mandarin interface strings for the many non-native English speakers.
 - **Accessibility pass**: colour-blind friendly element colours, larger text option, screen-reader labels on every card action.
 - **Teacher analytics**: behaviour trends over the term (private to the teacher, never shown in Presentation Mode).

diff --git a/docs/design-system.md b/docs/design-system.md
@@ -32,10 +32,17 @@ Both are bundled via Fontsource (no network). Hierarchy is by scale steps; no tr
 ## Components
 `btn-primary`, `btn-ghost`, `btn-light`, `btn-cloth`, `btn-danger`, `panel`, `paper`, `input`, `chip`, `ribbon`, `cloth`, `cloth-deep`, `ProgressBar` (element colour), `LevelBadge` ("Lv 7" tab, round seal at large size), `StagePips` (element colour), `ElementBadge`, `RarityStars`, `Modal` (bottom sheet on phones), `Toggle`, `AwardGrid`, `Icon`, `CoinIcon`.
 
+Added in 1.4: `EvolveBadge` ("Ready to evolve" gilt chip), `EvolutionQueue` and `BranchChooser` (`components/Evolve.tsx`), `AbilityTree` and `AbilityIcon` (`components/Abilities.tsx`), `ItemThumb` (an item shown on the student's own creature), `PixelSprite` and `Trail` (`creatures/pixel.tsx`), and the screens `CreatureProfile`, `Customize` (dressing room), `Creaturedex` (field guide) and `TeacherCreatures` (Settings → Creatures & Shop). Component rules are in `DESIGN.md`.
+
+## Pixel layer (1.4)
+- Effects from the vendored pixelfx library, trail particles, pixel snacks, toys and ability icons; one shared `requestAnimationFrame` clock; each effect module loads on first use and all are warmed while the app is idle
+- On large views an effect never covers the creature's face: full-body effects keep their rim (radial mask) or move aside, mood effects use a smaller stand-in, floating pickups have no floor shadow
+- Mythical final forms: colour grade + ornaments (`creatures/mythic.tsx`) + drifting particles; a bespoke `public/creatures/<id>-5b.webp` is used when present
+
 ## Motion
 - Idle loops: CSS only, 2–4 s, per-species style
 - Reactions: Framer Motion, ≤ 0.9 s, squash-and-stretch
-- Celebrations: ≤ 16 particles per burst; evolution sequence ~3.5 s with a Skip button
+- Celebrations: ≤ 16 particles per burst; evolution sequence (charge, flash, reveal) ~4 s with a Skip button
 - Everything respects *Reduce motion* (setting) and `prefers-reduced-motion`
 
 ## Creature art rules
